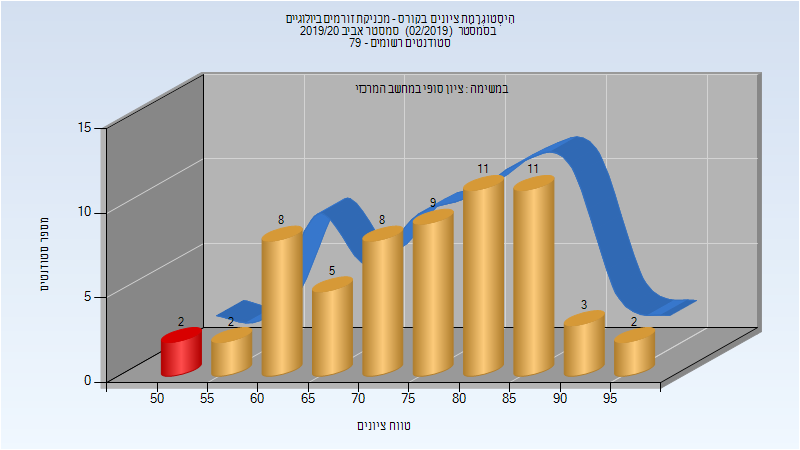
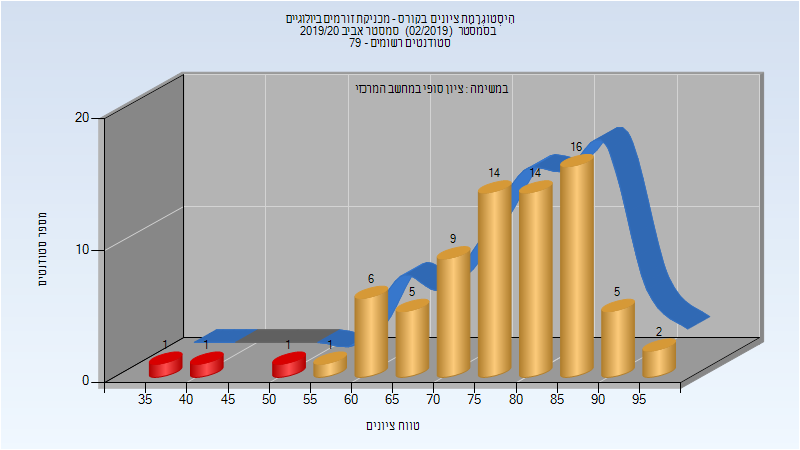
Deploy michael-maltsev/technion-histograms to github.com/michael-maltsev/technion-histograms.git:gh-pages

diff --git a/335009/index.html b/335009/index.html
@@ -391,6 +391,32 @@
 </tr>
 </tbody>
 </table>
+<h3>סופי מועד ב'</h3>
+<p><img src="201902/Final_B.png" alt="201902 Final_B" /></p>
+<table>
+<thead>
+<tr>
+<th>סטודנטים</th>
+<th>עברו/נכשלו</th>
+<th>אחוז עוברים</th>
+<th>ציון מינימלי</th>
+<th>ציון מקסימלי</th>
+<th>ממוצע</th>
+<th>חציון</th>
+</tr>
+</thead>
+<tbody>
+<tr>
+<td>31</td>
+<td>28/3</td>
+<td>90</td>
+<td>37</td>
+<td>91</td>
+<td>72.548</td>
+<td>74</td>
+</tr>
+</tbody>
+</table>
 <h3>סופי</h3>
 <p><img src="201902/Finals.png" alt="201902 Finals" /></p>
 <table>
@@ -407,13 +433,13 @@
 </thead>
 <tbody>
 <tr>
-<td>61</td>
-<td>59/2</td>
-<td>97</td>
-<td>53</td>
-<td>98</td>
-<td>76.131</td>
 <td>75</td>
+<td>72/3</td>
+<td>96</td>
+<td>37</td>
+<td>98</td>
+<td>77.347</td>
+<td>79</td>
 </tr>
 </tbody>
 </table>

diff --git a/335009/README.md b/335009/README.md
@@ -118,11 +118,19 @@
 | ---- | ---- | ---- | ---- | ---- | ---- | ---- |
 | 61 | 59/2 | 97 | 53 | 98 | 76.213 | 75 |
 
+### סופי מועד ב'
+
+![201902 Final_B](201902/Final_B.png)
+
+| סטודנטים | עברו/נכשלו | אחוז עוברים | ציון מינימלי | ציון מקסימלי | ממוצע | חציון |
+| ---- | ---- | ---- | ---- | ---- | ---- | ---- |
+| 31 | 28/3 | 90 | 37 | 91 | 72.548 | 74 |
+
 ### סופי
 
 ![201902 Finals](201902/Finals.png)
 
 | סטודנטים | עברו/נכשלו | אחוז עוברים | ציון מינימלי | ציון מקסימלי | ממוצע | חציון |
 | ---- | ---- | ---- | ---- | ---- | ---- | ---- |
-| 61 | 59/2 | 97 | 53 | 98 | 76.131 | 75 |
+| 75 | 72/3 | 96 | 37 | 98 | 77.347 | 79 |
 
